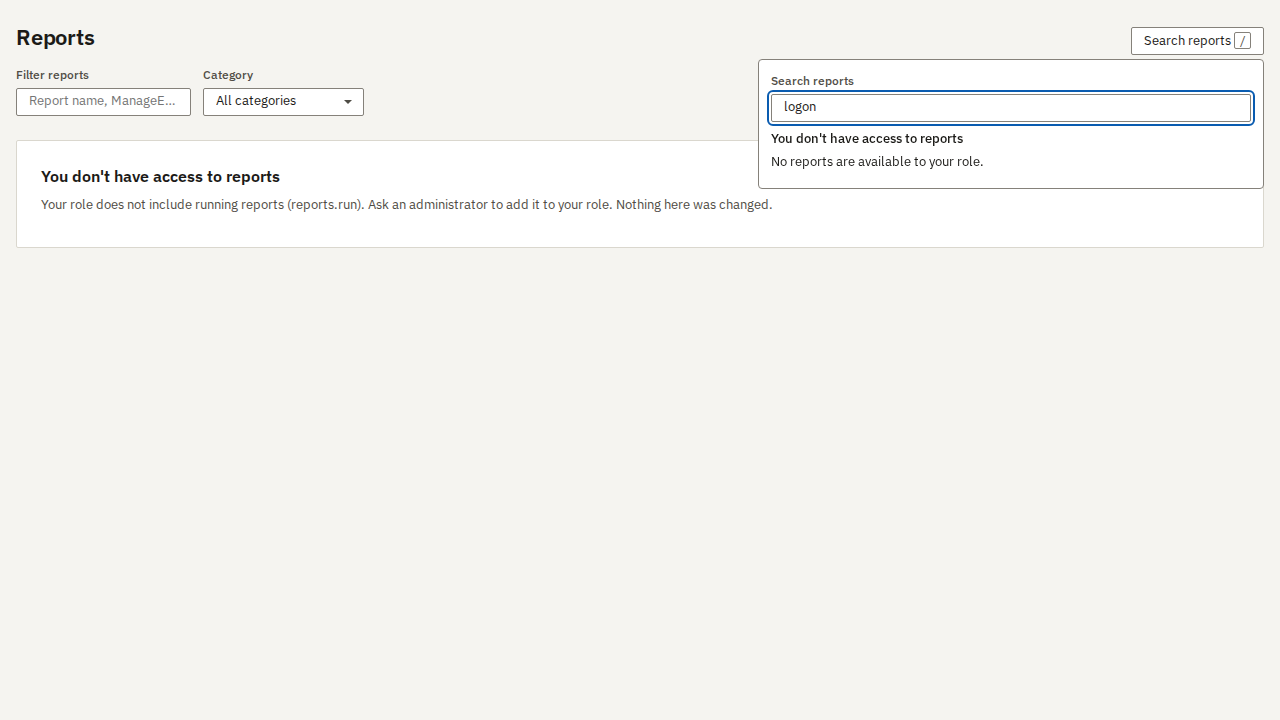
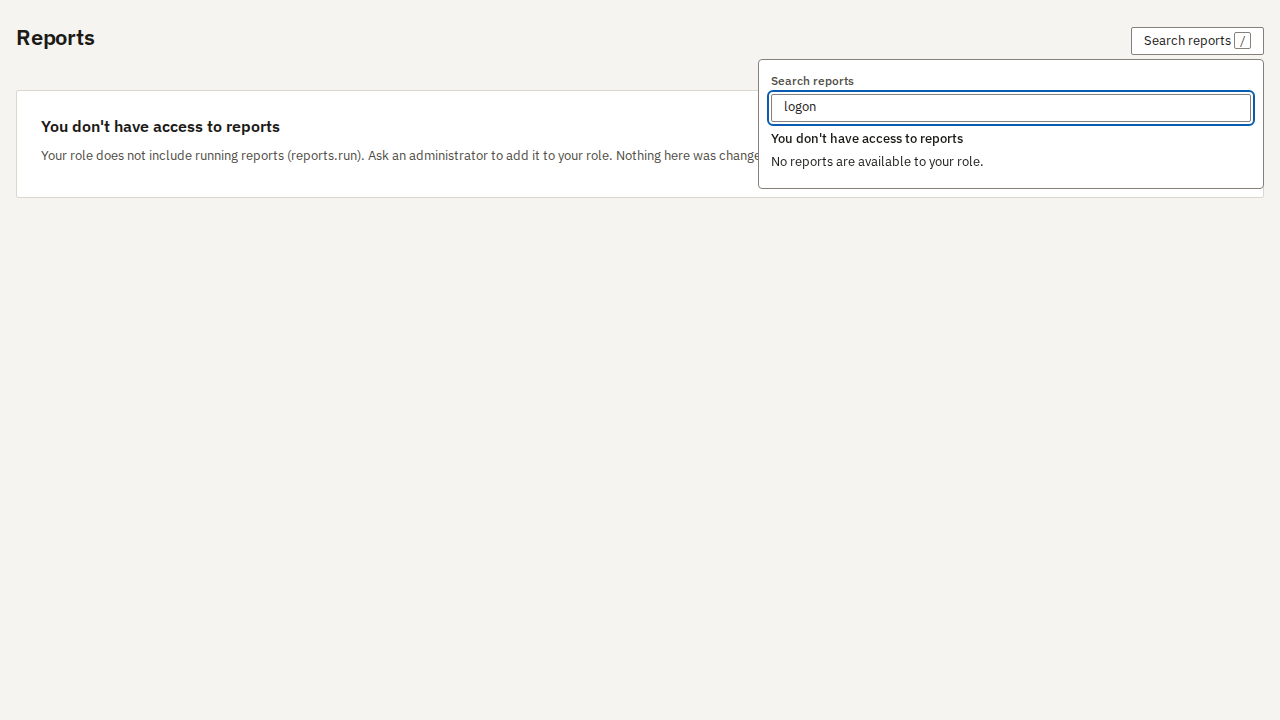
fix(web): hide library filter and category when the role has no reports access (T-0966)

Changed region(s): [[0.0312, 0.1833, 0.5938, 0.3056], [0.0, 0.0917, 0.2812, 0.1833]]

diff --git a/web/src/modules/reports/library-page.tsx b/web/src/modules/reports/library-page.tsx
@@ -46,6 +46,9 @@ export function LibraryPage({ client = api }: { readonly client?: ApiClient }) {
 
   const { state, retry, loadMore } = useDefinitions(client, { q, category });
   const filtered = q !== "" || category !== "";
+  // A role without reports.run has nothing to filter: the controls would change the address and
+  // nothing else, so they are not rendered.
+  const forbidden = state.status === "failed" && state.failure.kind === "forbidden";
 
   let body;
   if (state.status === "loading") {
@@ -149,24 +152,26 @@ export function LibraryPage({ client = api }: { readonly client?: ApiClient }) {
 
   return (
     <ReportsFrame client={client}>
-      <form role="search" className="rp-lib__filter" onSubmit={(e) => e.preventDefault()}>
-        <TextInput
-          label="Filter reports"
-          type="search"
-          autoComplete="off"
-          spellCheck={false}
-          placeholder="Report name, ManageEngine name or description"
-          value={text}
-          onChange={(e) => setText(e.target.value)}
-        />
-        <Select
-          label="Category"
-          placeholder="All categories"
-          options={CATEGORIES.map((c) => ({ value: c.id, label: c.label }))}
-          value={category}
-          onChange={(v) => setParams({ category: v })}
-        />
-      </form>
+      {!forbidden && (
+        <form role="search" className="rp-lib__filter" onSubmit={(e) => e.preventDefault()}>
+          <TextInput
+            label="Filter reports"
+            type="search"
+            autoComplete="off"
+            spellCheck={false}
+            placeholder="Report name, ManageEngine name or description"
+            value={text}
+            onChange={(e) => setText(e.target.value)}
+          />
+          <Select
+            label="Category"
+            placeholder="All categories"
+            options={CATEGORIES.map((c) => ({ value: c.id, label: c.label }))}
+            value={category}
+            onChange={(v) => setParams({ category: v })}
+          />
+        </form>
+      )}
       <section aria-busy={state.status === "loading"} aria-label="Reports">
         {body}
       </section>

diff --git a/web/e2e/reports.spec.ts b/web/e2e/reports.spec.ts
@@ -234,6 +234,9 @@ test("a role without reports.run sees no report entry and search finds none (AC-
   await page.goto("/reports");
   await expect(page.getByText("You don't have access to reports")).toBeVisible();
   await expect(page.getByRole("button", { name: "Retry" })).toHaveCount(0);
+  // No control that does nothing: the filter box and category select are not rendered.
+  await expect(page.getByLabel("Filter reports")).toHaveCount(0);
+  await expect(page.getByLabel("Category")).toHaveCount(0);
   await page.keyboard.press("/");
   await page.getByRole("combobox", { name: "Search reports" }).fill("logon");
   await expect(page.getByText("No reports are available to your role.")).toBeVisible();

diff --git a/web/src/modules/reports/report-pages.test.tsx b/web/src/modules/reports/report-pages.test.tsx
@@ -426,6 +426,9 @@ describe("the library", () => {
     respond = () => problem(403, "Forbidden");
     await mount("/reports", "library");
     expect(text()).toContain("You don't have access to reports");
+    // Nothing on the page may be a control that does nothing: no filter box, no category select.
+    expect(container.querySelector('input[type="search"]')).toBeNull();
+    expect(text()).not.toContain("Category");
     await act(async () => {
       document.dispatchEvent(new KeyboardEvent("keydown", { key: "/", bubbles: true }));
     });
